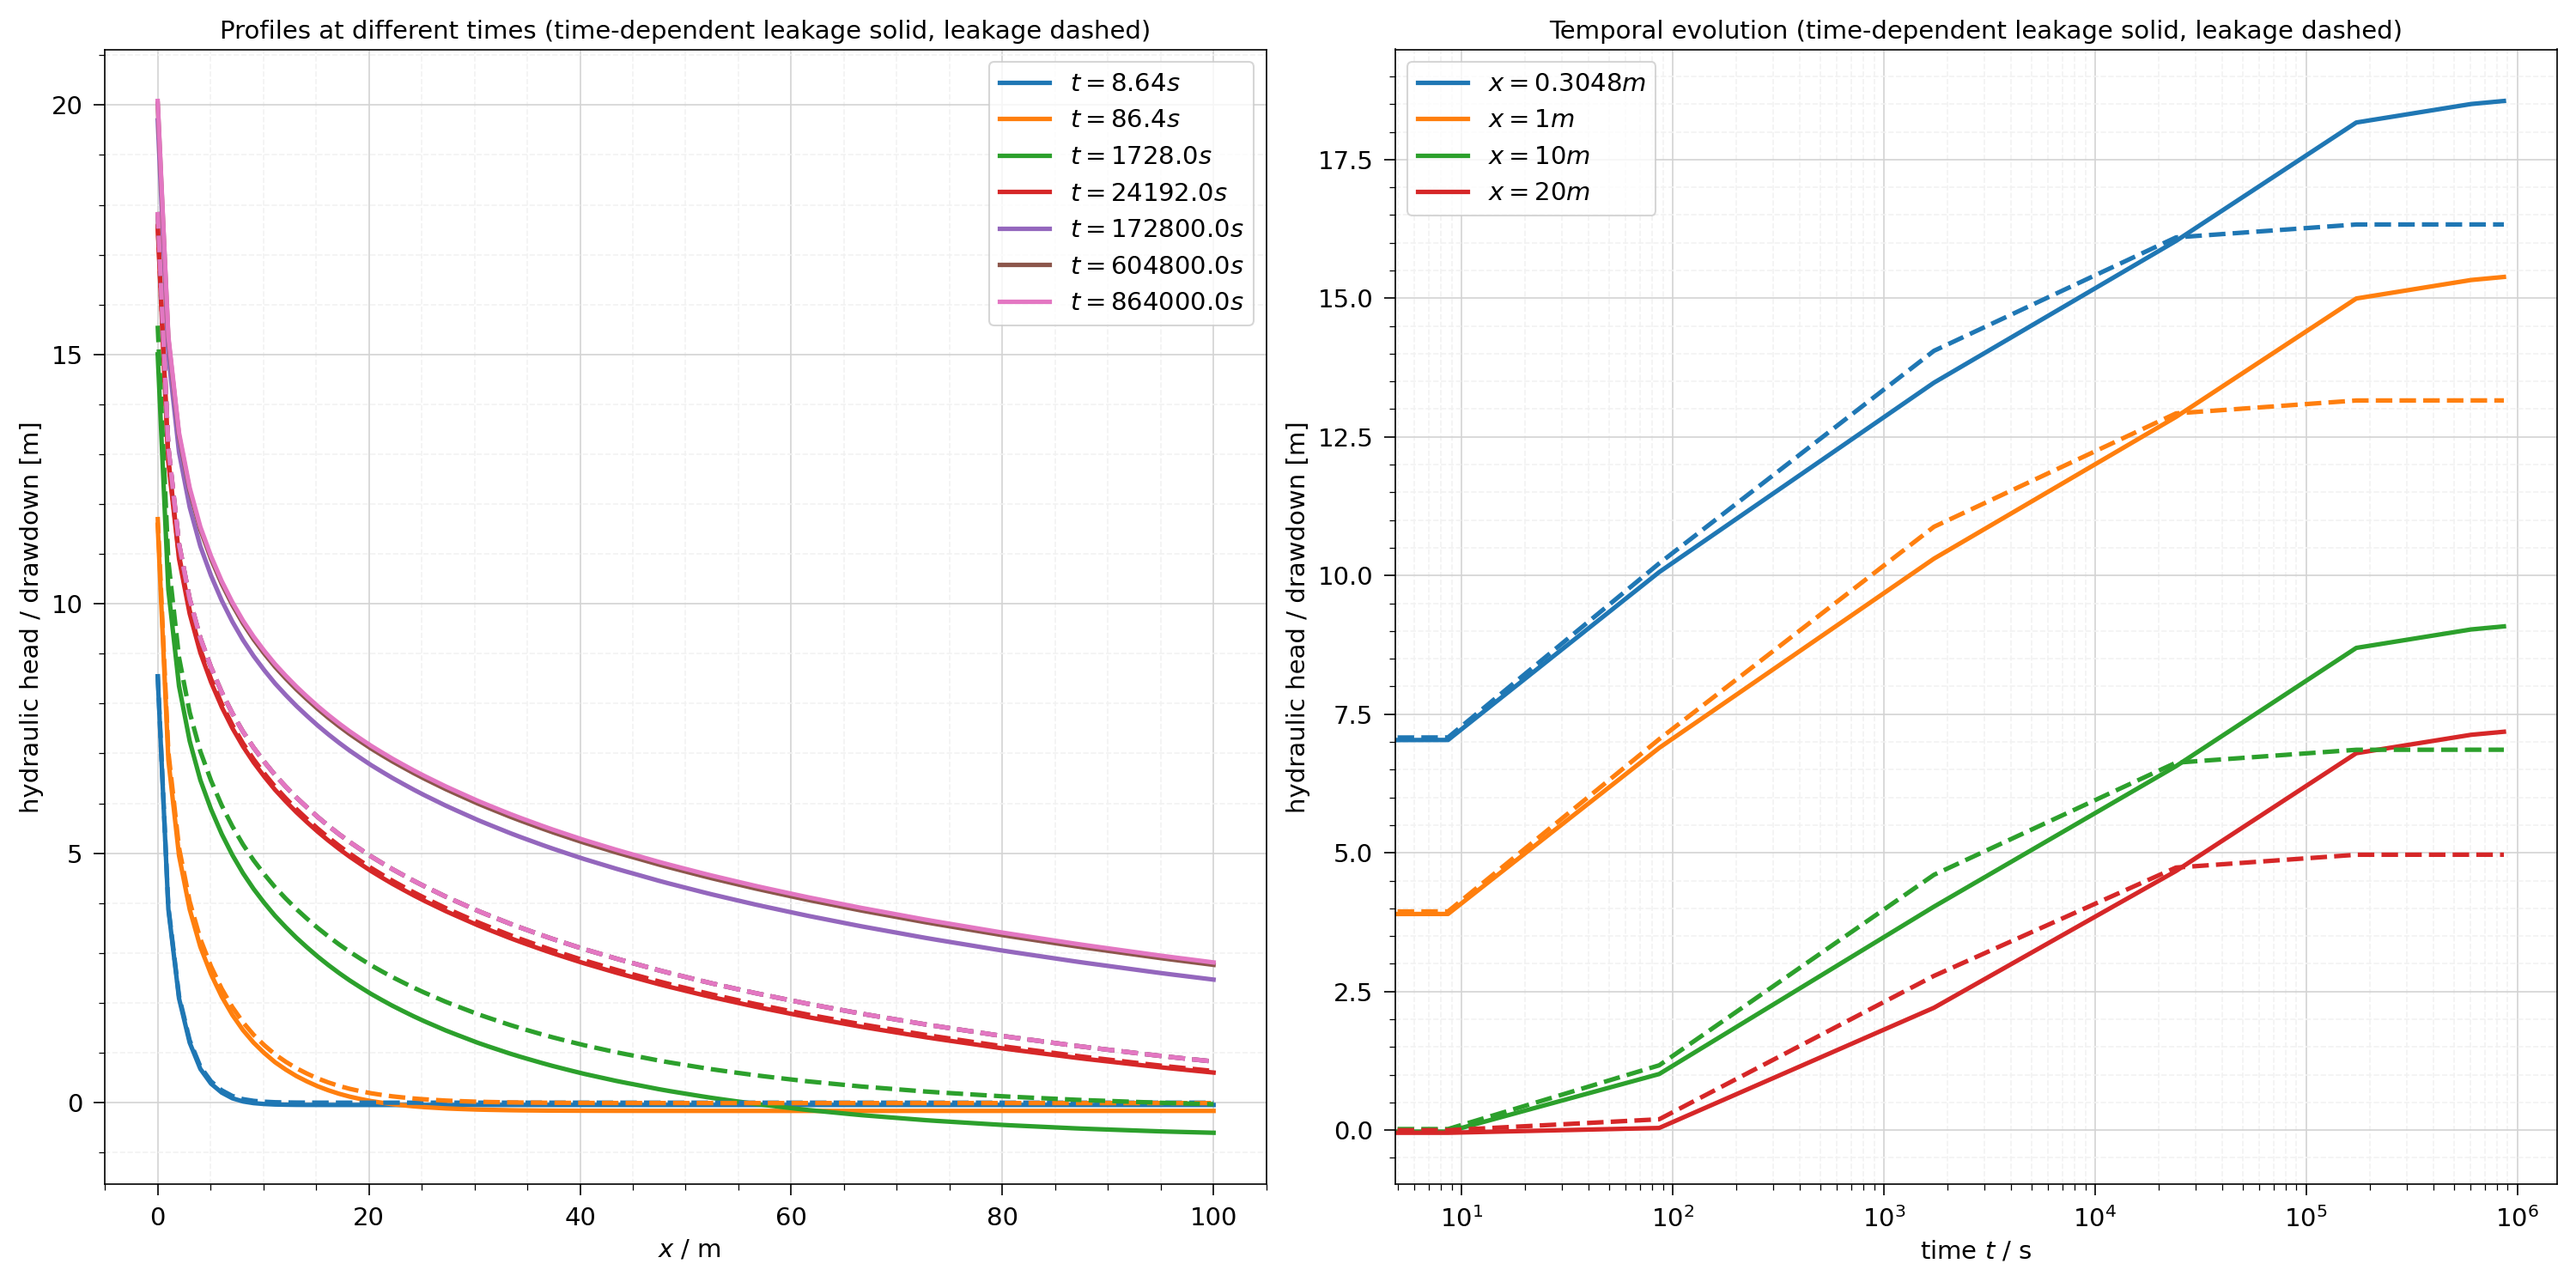
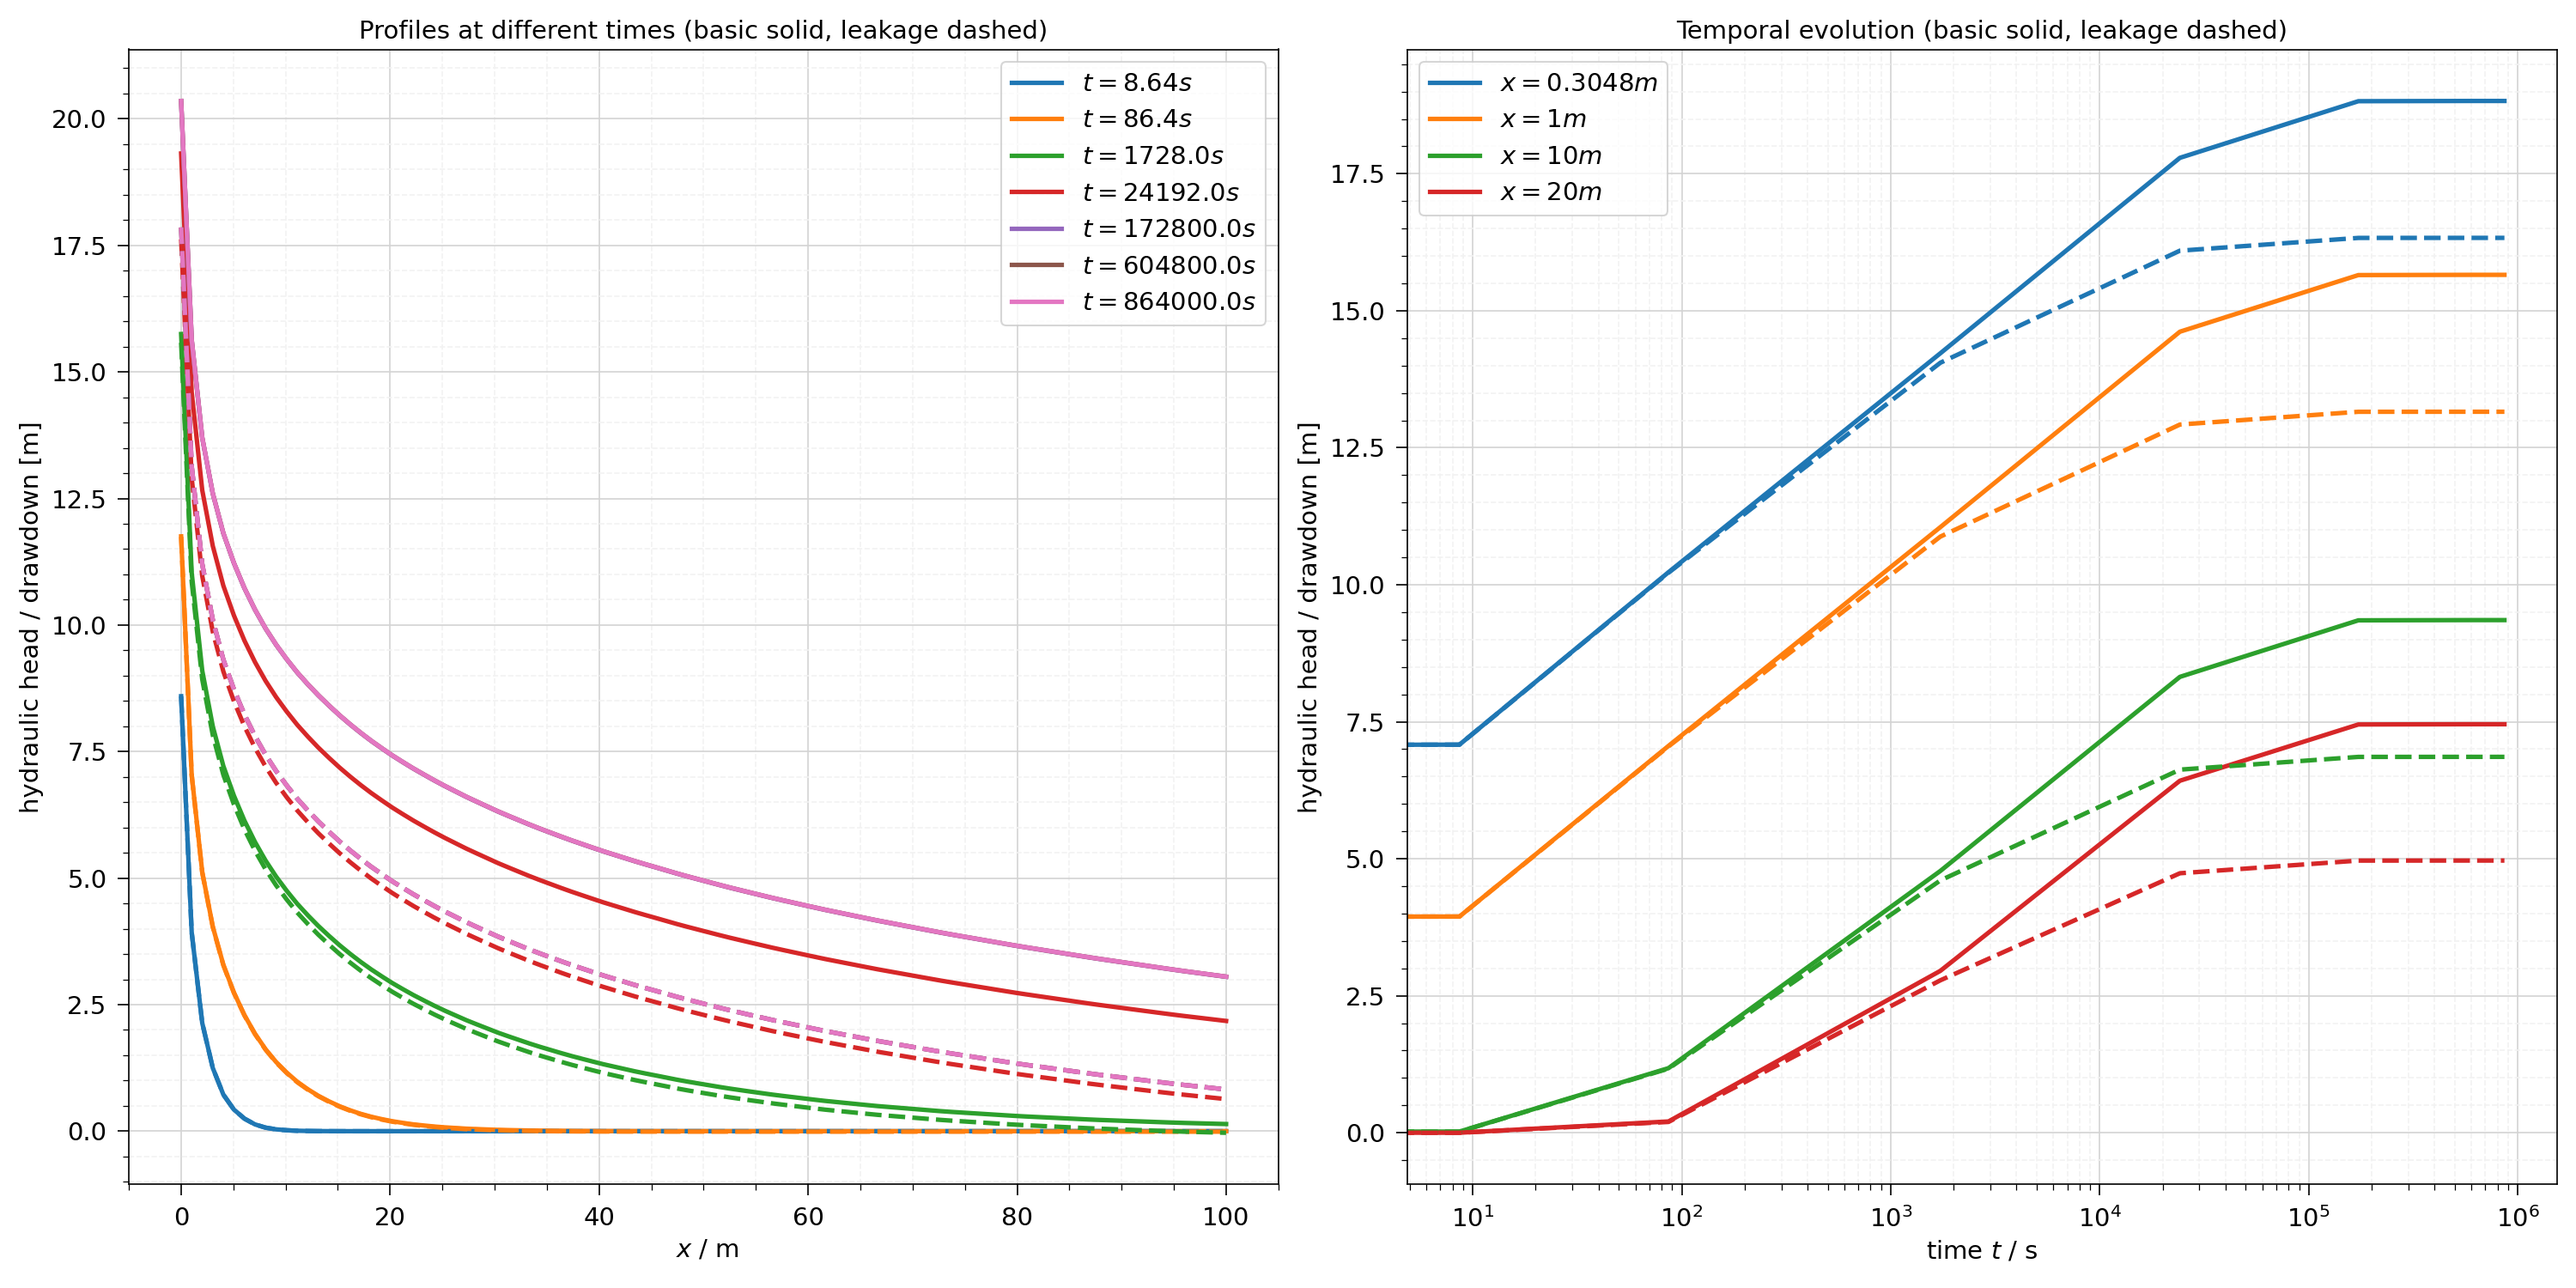
repairing Theis numerical basic and leakage versions

diff --git a/theis/plot_compare_numerical_solutions.py b/theis/plot_compare_numerical_solutions.py
@@ -1,5 +1,7 @@
-import ogstools as ot
+import subprocess
 from pathlib import Path
+
+import ogstools as ot
 import matplotlib.pyplot as plt
 import numpy as np
 
@@ -23,8 +25,23 @@ BASE_DIR = Path(__file__).resolve().parent
 xn = 100
 time_vals = [8.64, 86.4, 1728.0, 24192.0, 172800.0, 604800.0, 864000.0]
 
-ms_basic = ot.MeshSeries(str(BASE_DIR / "results_leakage_time" / "theis2Dcircle.pvd"))
-ms_leakage = ot.MeshSeries(str(BASE_DIR / "results_leakage" / "theis2Dcircle.pvd"))
+# Each case writes its results next to its project file (see <prefix> in
+# the .prj files). If results are missing, OGS is run in that folder first.
+CASES = {
+    "basic": (BASE_DIR / "basic", "ogs-basic.prj", "theis2Dcircle_basic.pvd"),
+    "leakage": (BASE_DIR / "leakage", "ogs-leakage.prj", "theis2Dcircle_leakage.pvd"),
+}
+
+
+def load_case(name, rerun=False):
+    folder, prj, pvd = CASES[name]
+    if rerun or not (folder / pvd).exists():
+        subprocess.run(["ogs", prj, "-o", str(folder)], cwd=folder, check=True)
+    return ot.MeshSeries(str(folder / pvd))
+
+
+ms_basic = load_case("basic")
+ms_leakage = load_case("leakage")
 pressure = ot.variables.pressure.replace(data_unit="m", output_unit="m", output_name="hydraulic head")
 
 #-#############################
@@ -42,7 +59,7 @@ probe_leakage = ms_leakage.probe(xaxis)
 ot.plot.line(probe_leakage[1:], "x", pressure, ax=ax[0],
              linestyle="--", fontsize=14)
 
-ax[0].set_title("Profiles at different times (time-dependent leakage solid, leakage dashed)")
+ax[0].set_title("Profiles at different times (basic solid, leakage dashed)")
 ax[0].set_ylabel("hydraulic head / drawdown [m]")
 
 #-#############################
@@ -59,7 +76,7 @@ point_series_leakage = ms_leakage.probe(points_observation)
 ot.plot.line(point_series_leakage, "time", pressure, ax=ax[1],
              linestyle="--", fontsize=14)
 
-ax[1].set_title("Temporal evolution (time-dependent leakage solid, leakage dashed)")
+ax[1].set_title("Temporal evolution (basic solid, leakage dashed)")
 ax[1].set_xscale("log")
 ax[1].set_ylabel("hydraulic head / drawdown [m]")
 

diff --git a/theis/readme.md b/theis/readme.md
@@ -1,0 +1,19 @@
+Theis
+
+14.10.2026: theis output in actual directory
+
+(OK1)
+Please modify the project file axisym_theis.prj in folder theis1Dradial that the output results are written in the actual folder (i.e. where the project file is).
+
+(OK2)
+Please modify the Python code axisym_theis.py that the output results are written in the actual folder (i.e. where the project file is) and the comparison with the analytical solution works.
+
+(OK3)
+Please ckeck the theis numerical models in folder 94-CLD/theis. The basic case and the leakage case should write results in the actual folder (where the project file is) and function plot_compare_numerical_solutions.py (in the folder above) should show the comparision of basic and leakage cases.
+
+09.10.2026
+
+Python-Version for leakage
+
+(OK1)
+After writing the essay, now we go back to the OGS simulation. The leakage term in ogs-leakage.prj is expressed as <source_term> connected with a <mesh>mesh_leakage</mesh>. Please use a Python-Funktion instead and use the OGS Python interface for modeling the leakage. The OGS project you find in subfolder 94-CLD/theis/leakage.
